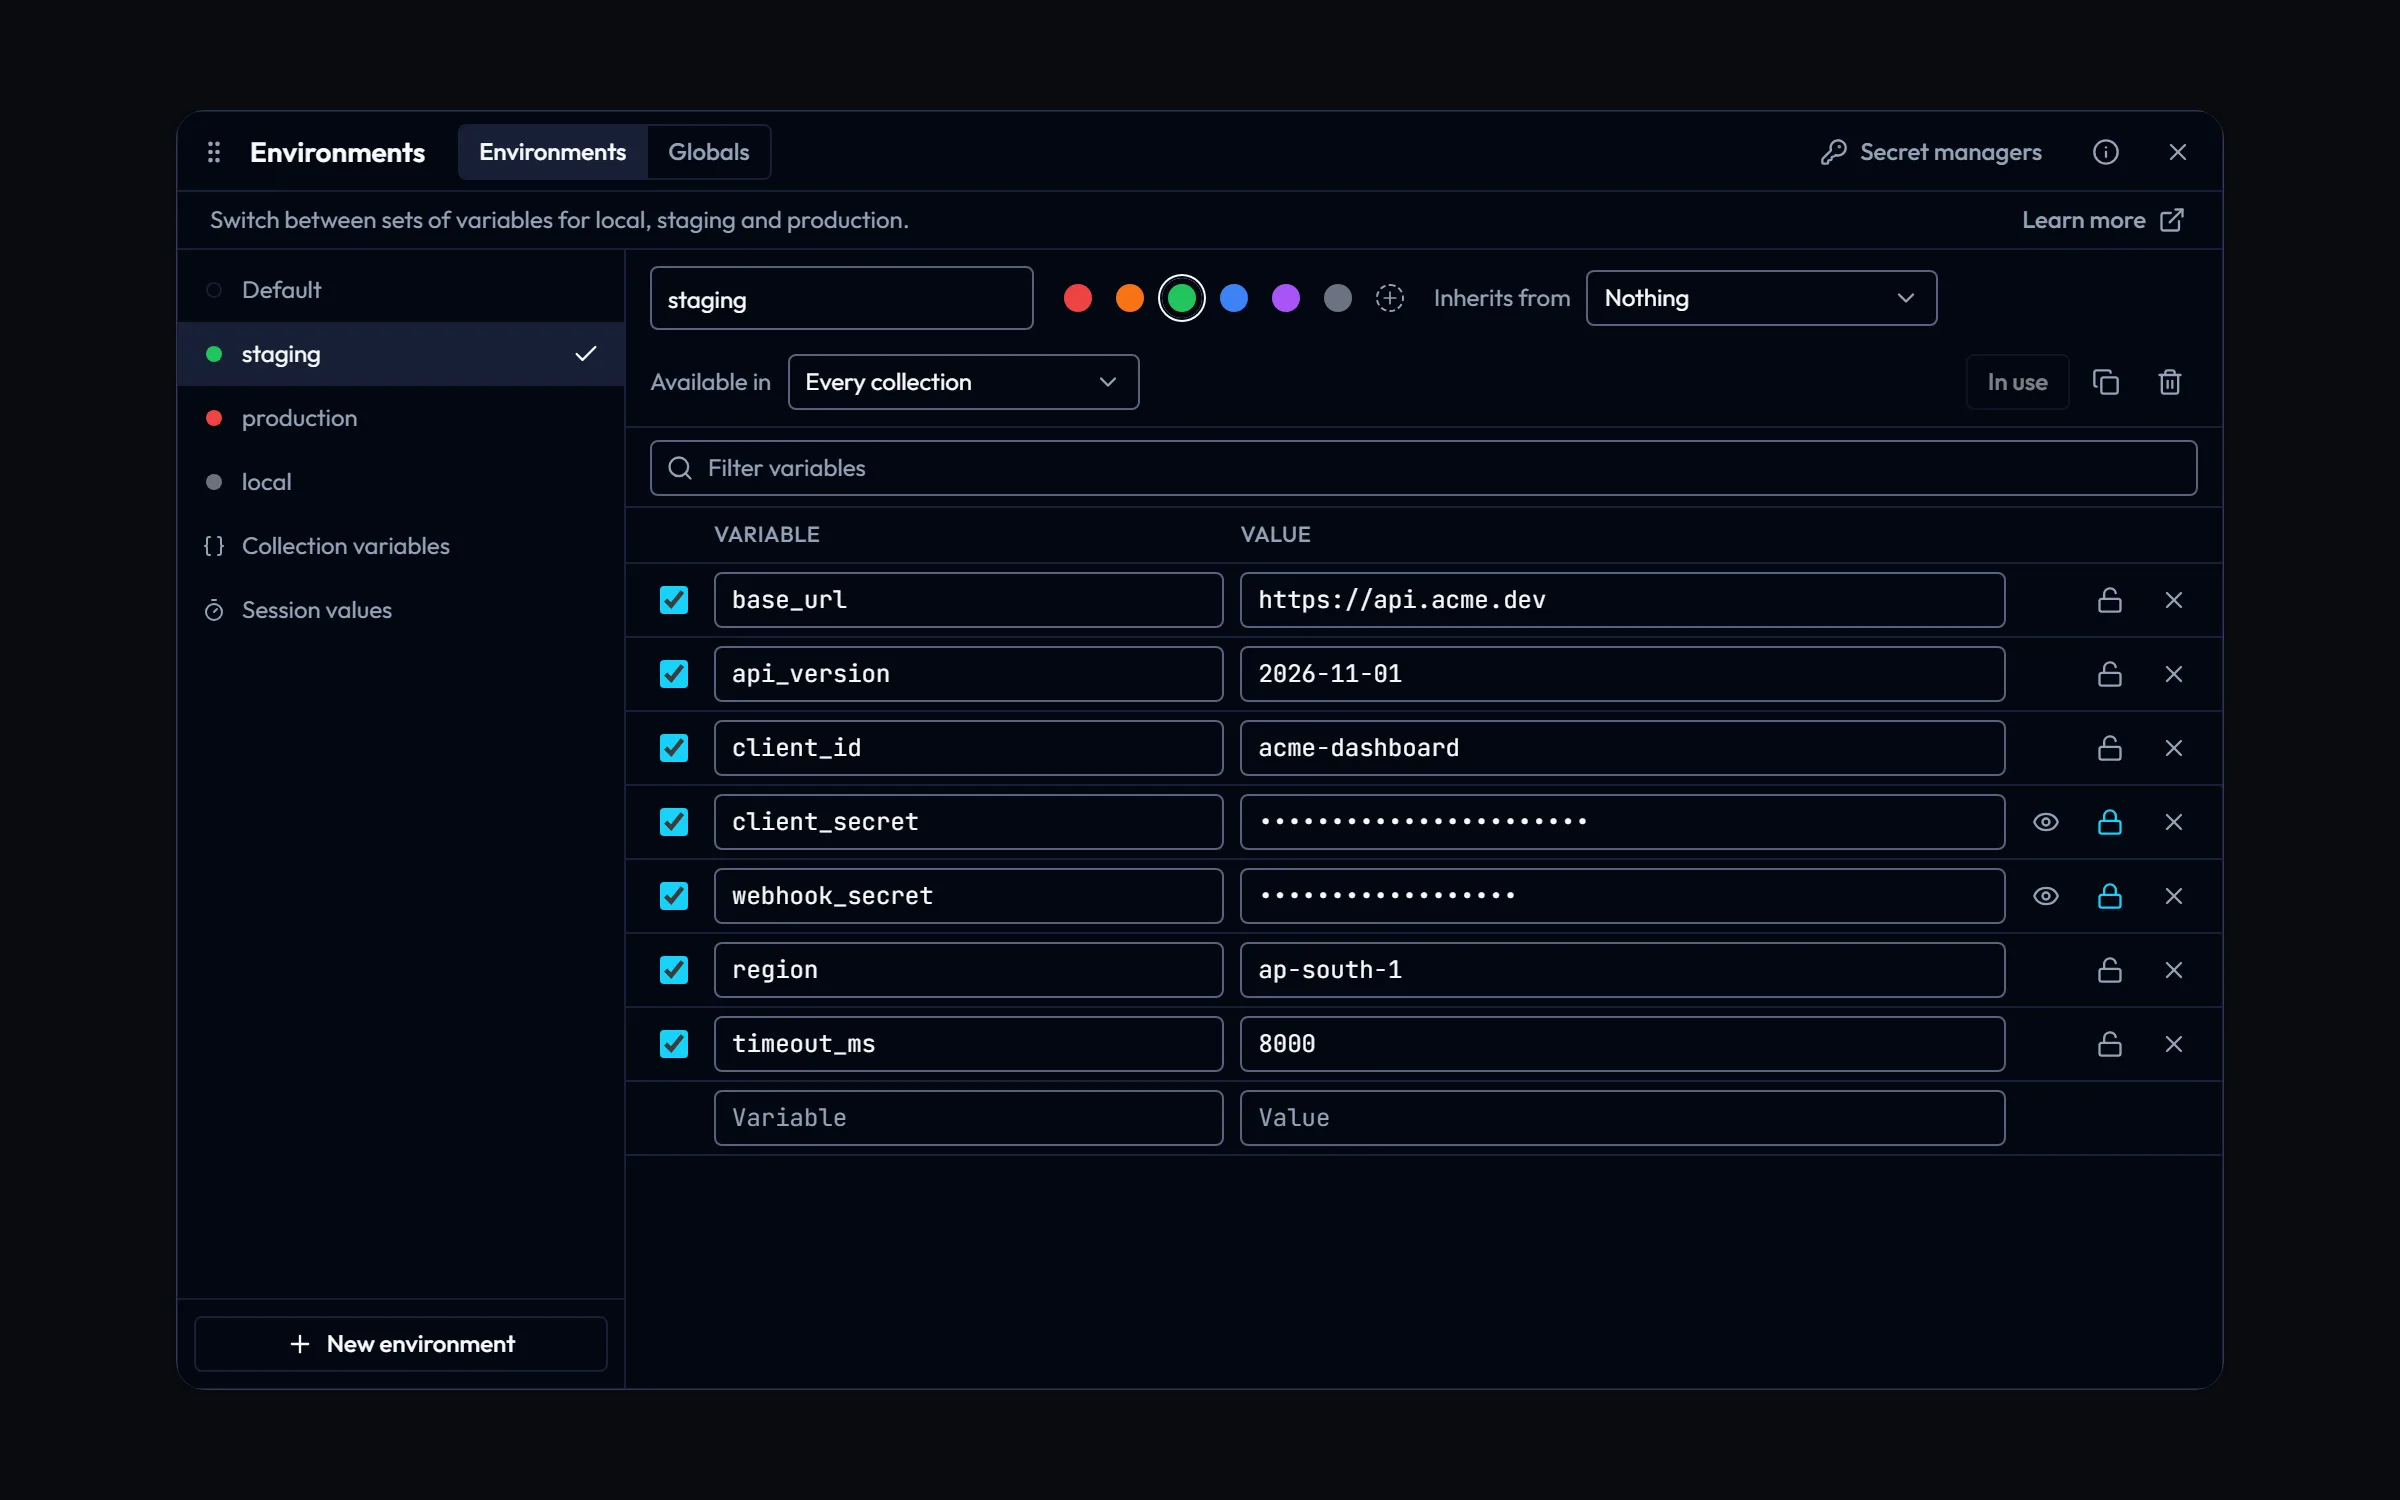
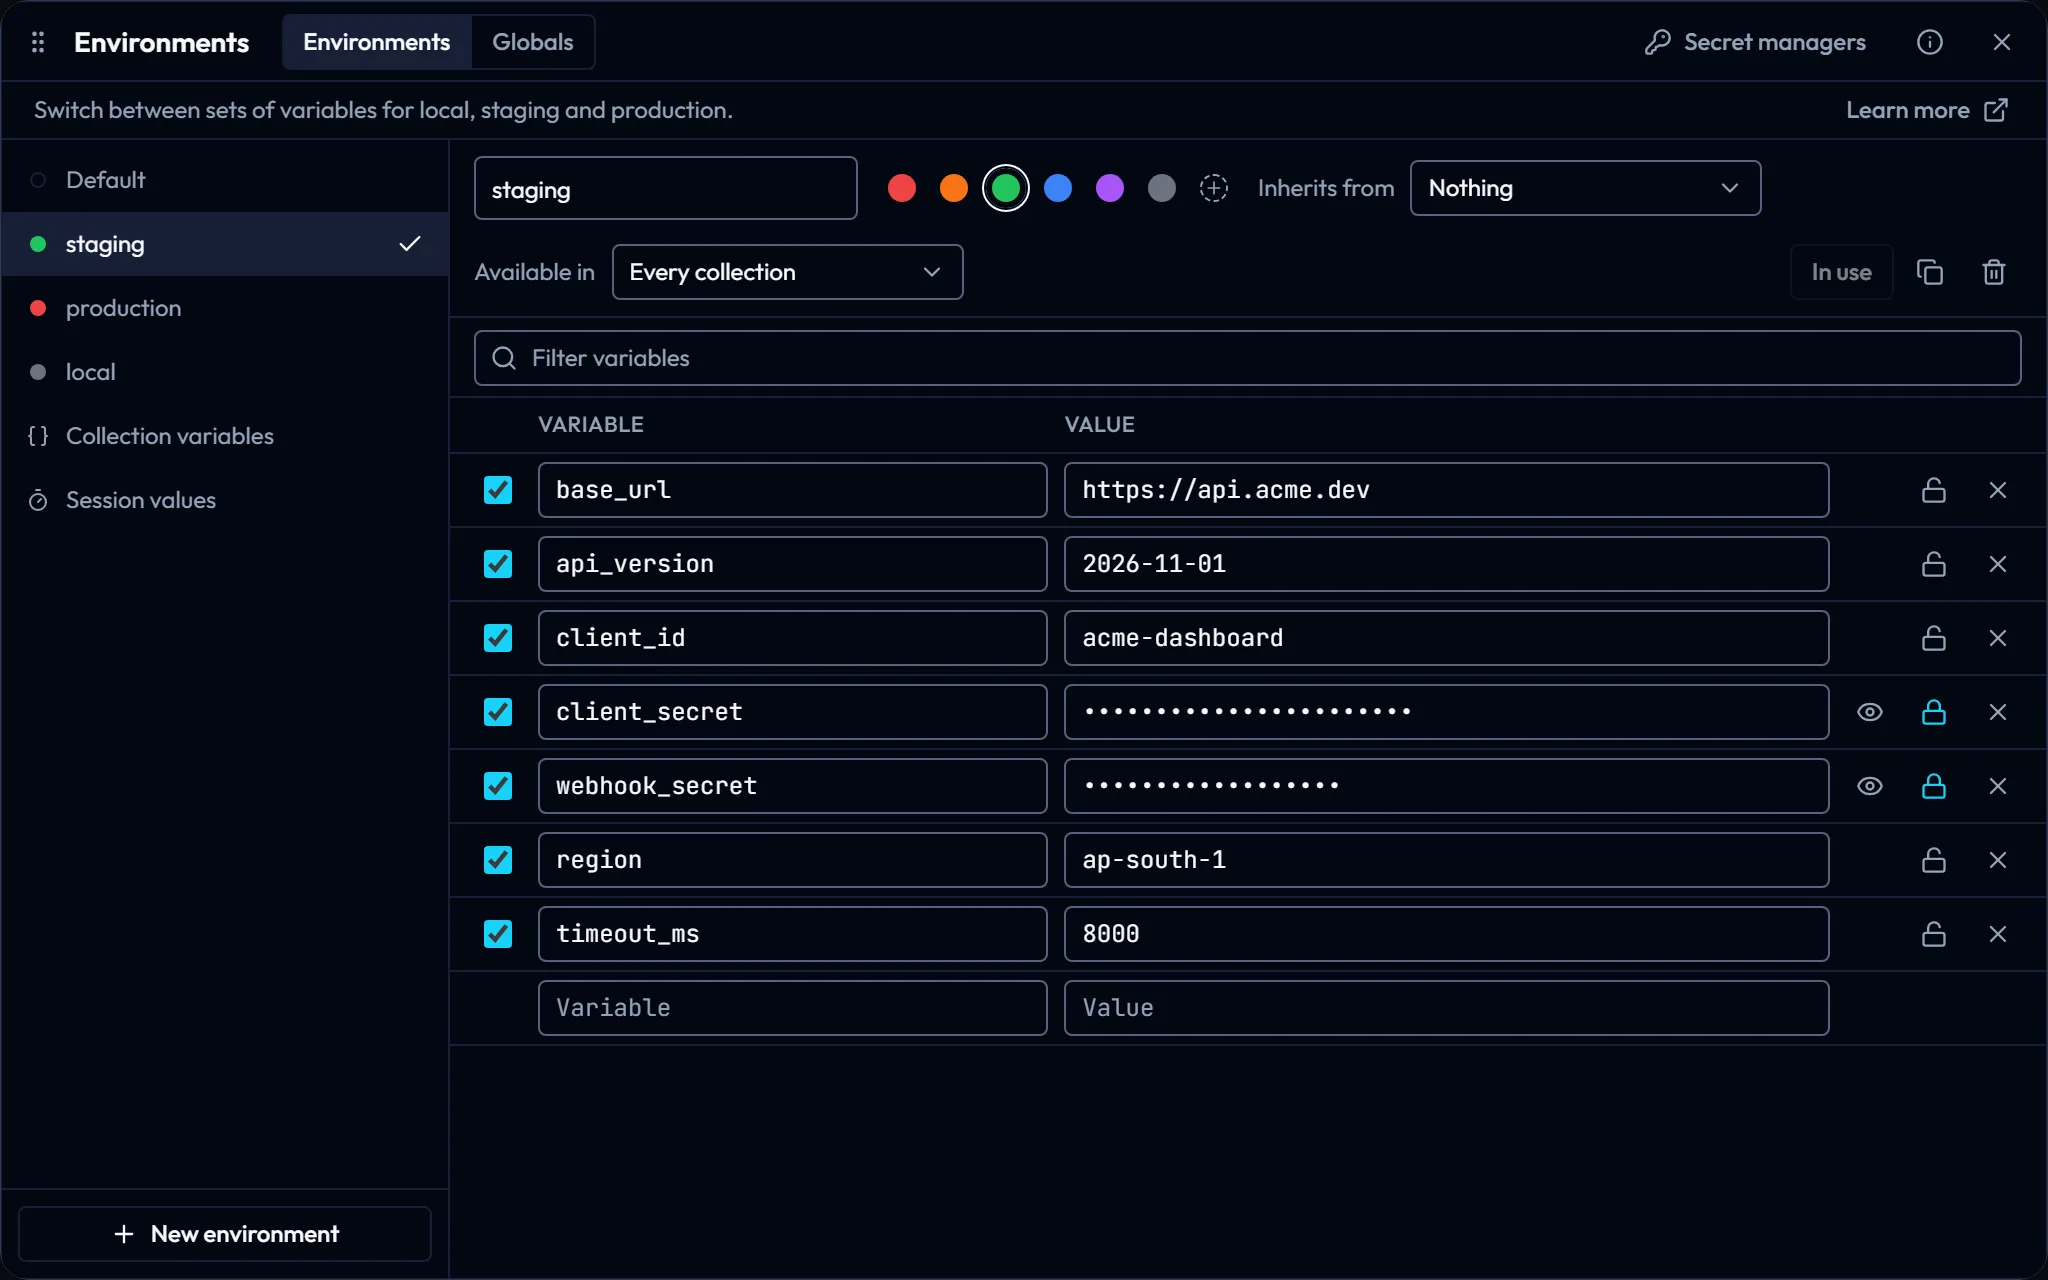
Trim screenshot borders and drop gallery frame padding

diff --git a/components/case-study/gallery.tsx b/components/case-study/gallery.tsx
@@ -53,7 +53,7 @@ function Slide({ shot, index, onOpen }: { shot: Screenshot; index: number; onOpe
         type="button"
         onClick={onOpen}
         aria-label={`View full screen: ${shot.caption}`}
-        className="flex aspect-[16/10] max-md:aspect-auto w-full cursor-zoom-in items-center justify-center rounded-lg border border-line bg-surface-alt p-2 md:p-5"
+        className="block w-full cursor-zoom-in overflow-hidden rounded-lg border border-line bg-surface-alt"
       >
         <Image
           src={shot.src}
@@ -63,7 +63,7 @@ function Slide({ shot, index, onOpen }: { shot: Screenshot; index: number; onOpe
           sizes={SLIDE_SIZES}
           quality={IMAGE_QUALITY.card}
           {...(index === 0 ? LCP_IMAGE_PROPS : {})}
-          className="block h-auto max-h-full w-auto max-w-full max-md:w-full rounded-md shadow-sm ring-1 ring-black/5 dark:ring-white/10"
+          className="block h-auto w-full"
         />
       </button>
       <figcaption className="mt-2 font-custom2 text-sm leading-snug text-fg-muted">{shot.caption}</figcaption>
